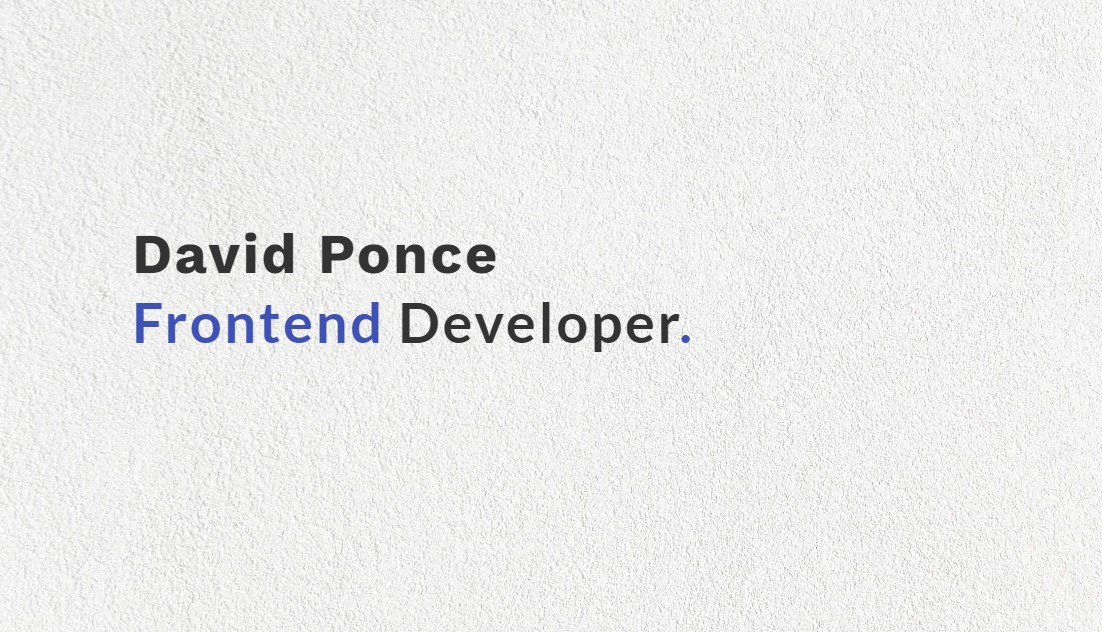
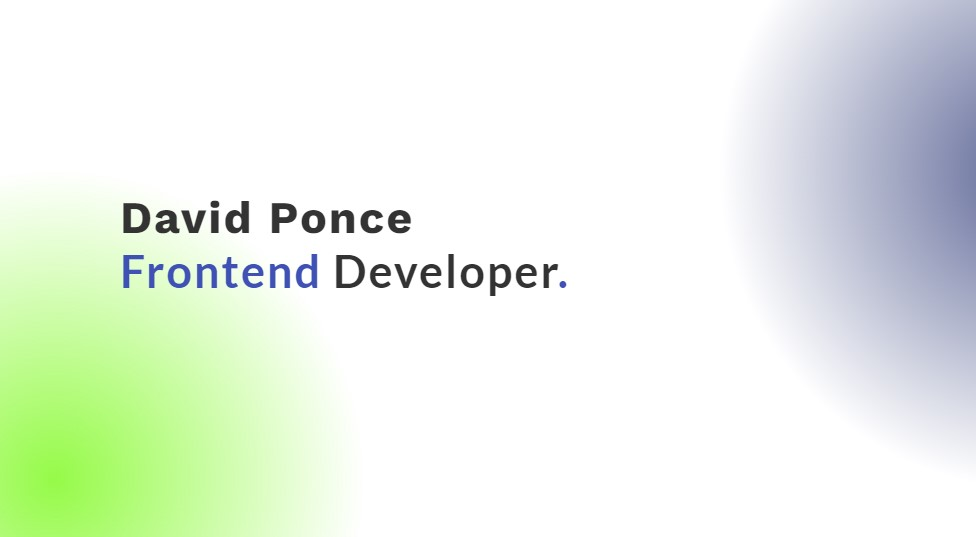
Update styles and add projects

diff --git a/src/data/projects.js b/src/data/projects.js
@@ -7,6 +7,13 @@ export const projects = [
         'url': 'https://www.ae.com.gt/'
     },
     {
+        'id': 'guess-mx',
+        'name':'Guess MX', 
+        'cover':'images/projects/guess-cover.png', 
+        'project_description': 'eCommerce implementation with VTEX & VTEX IO',
+        'url': 'https://www.guess.mx/'
+    },
+    {
         'id': 'taf',
         'name':'TAF MX', 
         'cover':'images/projects/taf-cover.jpg', 
@@ -28,6 +35,20 @@ export const projects = [
         'url': 'https://www.victoriassecretbeauty.ar/'
     },
     {
+        'id': 'tommy-hilfiger',
+        'name':'Tommy Hilfiger MX', 
+        'cover':'images/projects/tommy-cover.jpg', 
+        'project_description': 'eCommerce implementation with VTEX & VTEX IO',
+        'url': 'https://mx.tommy.com/'
+    },
+    {
+        'id': 'voit',
+        'name':'Voit', 
+        'cover':'images/projects/voit-cover.png', 
+        'project_description': 'eCommerce implementation with VTEX & VTEX IO',
+        'url': 'https://www.voit.com.mx/'
+    },
+    {
         'id': 'ferretop',
         'name':'Ferretop', 
         'cover':'images/projects/ferretop-cover.jpg', 
@@ -47,13 +68,6 @@ export const projects = [
         'cover':'images/projects/vinoteca-cover.jpg', 
         'project_description': 'eCommerce implementation with VTEX & VTEX IO',
         'url': 'https://www.vinoteca.com/'
-    },
-    {
-        'id': 'tommy-hilfiger',
-        'name':'Tommy Hilfiger MX', 
-        'cover':'images/projects/tommy-cover.jpg', 
-        'project_description': 'eCommerce implementation with VTEX & VTEX IO',
-        'url': 'https://mx.tommy.com/'
     },
     {
         'id': 'payless',

diff --git a/src/styles/base/_base.scss b/src/styles/base/_base.scss
@@ -93,15 +93,49 @@ h1 {
 }
 
 .btn-primary {
-    background-color: $c-primary;
-    color: #fff;
+    align-items: center;
+    background-image: linear-gradient(144deg,#394494, #5d7dd4 50%,#cbd8f2);
+    border: 0;
+    border-radius: 8px;
+    box-shadow: rgba(151, 65, 252, 0.2) 0 15px 30px -5px;
+    box-sizing: border-box;
+    color: #FFFFFF;
+    display: flex;
+    justify-content: center;
+    line-height: 1em;
+    max-width: 100%;
+    min-width: 140px;
+    padding: 3px;
+    text-decoration: none;
+    user-select: none;
+    -webkit-user-select: none;
+    touch-action: manipulation;
+    white-space: nowrap;
+    cursor: pointer;
+    max-width: 200px;
+    margin-top: 1rem;
 
-    transition-property: background-color;
-    transition-duration: 0.3s;
-    transition-timing-function: ease;
+    @include mediaTo(md) {
+        margin: 3rem auto 0;
+    }
 
+    &:active,
     &:hover {
-        background-color: darken($c-primary, 7);
+        outline: 0;
+    }
+
+    span {
+
+        background-color: rgb(5, 6, 45);
+        padding: 16px 24px;
+        border-radius: 6px;
+        width: 100%;
+        height: 100%;
+        transition: 300ms;
+    }
+
+    &:hover span {
+        background: none;
     }
 }
 

diff --git a/src/styles/components/_main.scss b/src/styles/components/_main.scss
@@ -17,9 +17,24 @@
     }
 
     .theme--light &{
-        background-image: url('../../../public/images/bg-white-m.jpg');
-        @include mediaFrom(lg) {
-            background-image: url('../../../public/images/bg-white-d.jpg');
+        // background-image: url('../../../public/images/bg-white-m.jpg');
+        // @include mediaFrom(lg) {
+        //     background-image: url('../../../public/images/bg-white-d.jpg');
+        // }
+        background:
+            radial-gradient(circle, rgba(138, 250, 52, 0.9) 0%,hsla(0,0%,100%,0) 44%),
+            radial-gradient(circle,#5A6394 0,hsla(0,0%,100%,0) 45%);
+        background-position-x: calc(50% - 43vw), calc(50% + 49vw);
+        background-position-y: 20rem, -2rem;
+        background-repeat: no-repeat, no-repeat;
+
+        @include mediaTo(sm) {
+            background:
+            radial-gradient(circle, rgba(138, 250, 52, 0.9) 0%,hsla(0,0%,100%,0) 42%),
+            radial-gradient(circle,#5A6394 0,hsla(0,0%,100%,0) 40%);
+            background-position-y: 20rem, -10rem;
+            background-position-x: calc(50% - 43vw), calc(50% + 55vw);
+            background-repeat: no-repeat, no-repeat;
         }
     }
 }

diff --git a/src/styles/components/_navbar.scss b/src/styles/components/_navbar.scss
@@ -20,6 +20,10 @@ header {
             color: themed("text-color");
         }
 
+        @include mediaFrom(lg) {
+            backdrop-filter: blur(2px);
+        }
+
     }
 
     &__collapse {
@@ -46,11 +50,14 @@ header {
         }
 
         .theme--light &{
-            background-image: url('../../../public/images/bg-white-m.jpg');
+            // background-image: url('../../../public/images/bg-white-m.jpg');
+            background-color: #f2f2f793;
+            backdrop-filter: blur(5px);
         }
 
         @include mediaFrom(lg) {
             background: none !important;
+            backdrop-filter: unset !important;
             position: unset;
             width: auto;
             flex: auto;

diff --git a/src/components/ui/About.js b/src/components/ui/About.js
@@ -17,7 +17,7 @@ export const About = () => {
               I like to collaborated with talented people to create the best <span className='c-primary'>Frontend</span> solutions for our costumers.
             </p>
 
-            <Link className='btn btn-primary mt-5 about__cta' to='/contact'>Get in Touch</Link>
+            <Link className='btn btn-primary mt-5 about__cta' to='/contact'><span>Get in Touch</span></Link>
 
         </div>
     </div>

diff --git a/src/styles/components/_about.scss b/src/styles/components/_about.scss
@@ -28,6 +28,7 @@
     p {
         letter-spacing: 0.9px;
         line-height: 22px;
+        margin-bottom: 2rem;
         @include themify(){
             color: themed("text-color");
         }
@@ -36,9 +37,5 @@
             max-width: 500px;
             margin-top: 40px;
         }
-    }
-
-    .about__cta {
-        display: inline-block;
     }
 }

diff --git a/src/styles/components/projects/_project-card.scss b/src/styles/components/projects/_project-card.scss
@@ -2,9 +2,12 @@
 
     &-card {
 
-        margin: 30px 0;
+        margin: 30px 5px;
         padding: 20px;
         border-radius: 10px;
+
+        background-color: #f2f2f791;
+        backdrop-filter: blur(8px);
 
         transition-property: transform;
         transition-duration: 0.3s;
